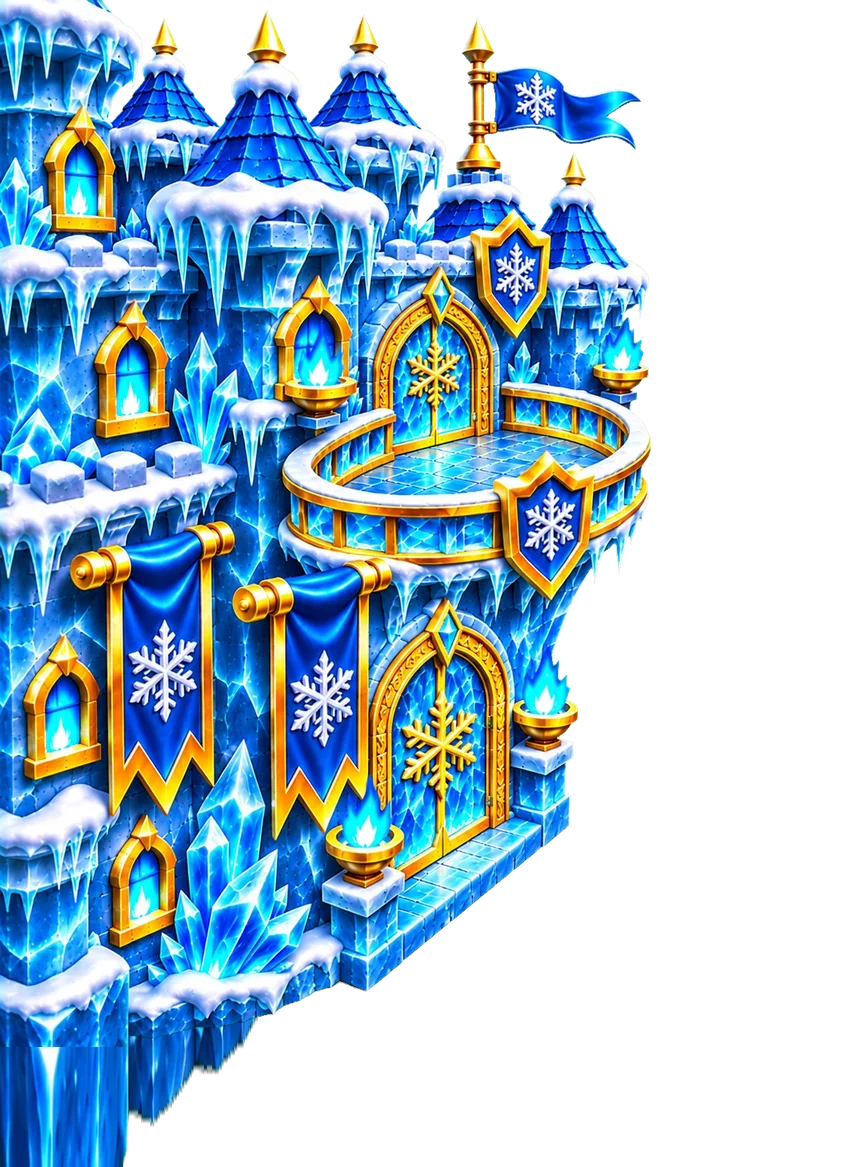
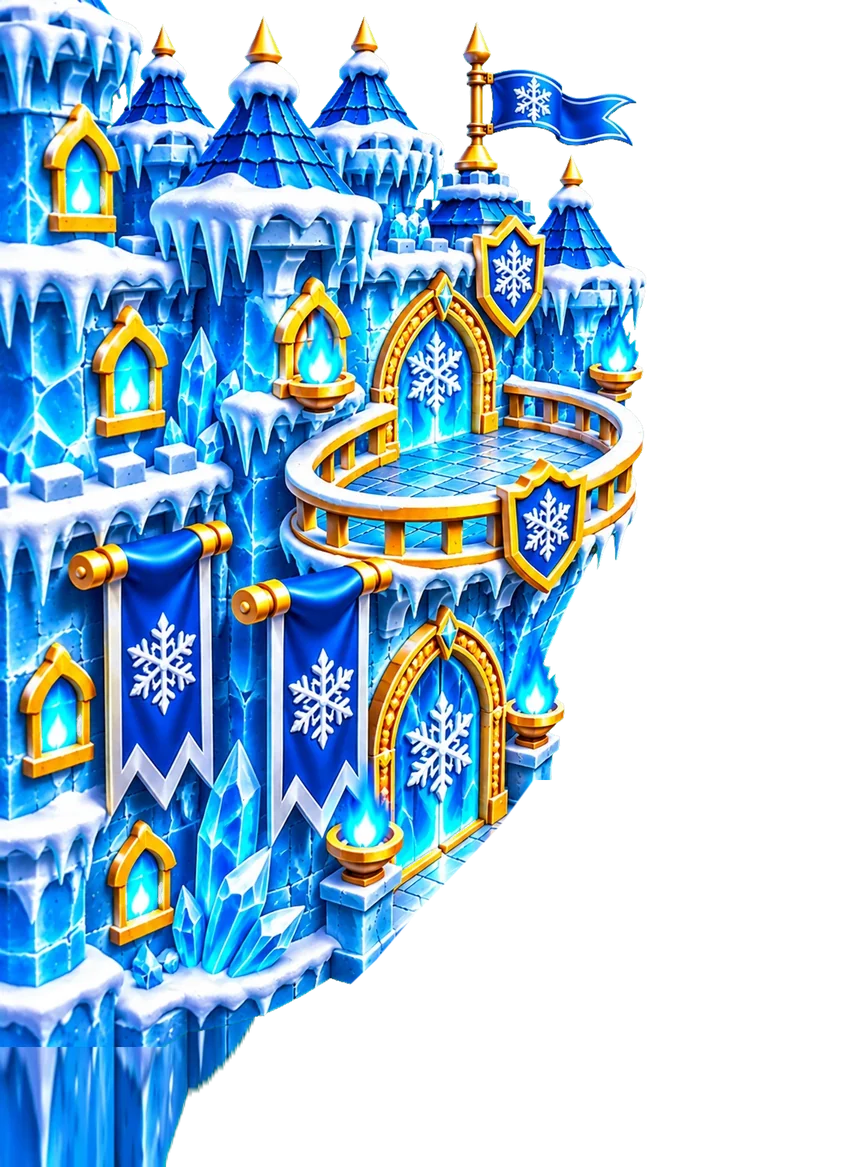
Castles: same base line for all 5, new Glacial art, troops touch the wall [skip ci]
Claude-Session: https://claude.ai/code/session_019FHBnxKyTVWzaJqkftQpoS

diff --git a/web/js/castles.js b/web/js/castles.js
@@ -1,3 +1,3 @@
 // gerado por tools/extract-castles-side.py
 window.BB = window.BB || {};
-BB.CASTLES_ART = {"royal_fortress": {"w": 845, "h": 1167, "x": -310, "y": -192, "foot": [488, 484], "gate": [424, 735], "rail": [[300, 510], [420, 542], [525, 542], [634, 458], [636, 540], [570, 589], [420, 596], [300, 574]], "front": [317, 230, 176], "src": "img/castles/royal_fortress.webp"}, "glacial_fortress": {"w": 845, "h": 1167, "x": -310, "y": -192, "foot": [488, 484], "gate": [424, 735], "rail": [[300, 510], [420, 542], [525, 542], [634, 458], [636, 540], [570, 589], [420, 596], [300, 574]], "front": [335, 248, 245], "src": "img/castles/glacial_fortress.webp"}, "draconic_castle": {"w": 845, "h": 1167, "x": -310, "y": -192, "foot": [488, 484], "gate": [424, 735], "rail": [[300, 510], [420, 542], [525, 542], [634, 458], [636, 540], [570, 589], [420, 596], [300, 574]], "front": [323, 236, 197], "src": "img/castles/draconic_castle.webp"}, "sylvan_sanctuary": {"w": 845, "h": 1167, "x": -310, "y": -192, "foot": [488, 484], "gate": [424, 735], "rail": [[300, 510], [420, 542], [525, 542], [634, 458], [636, 540], [570, 589], [420, 596], [300, 574]], "front": [339, 246, 236], "src": "img/castles/sylvan_sanctuary.webp"}, "shadow_necropolis": {"w": 845, "h": 1167, "x": -310, "y": -192, "foot": [488, 484], "gate": [424, 735], "rail": [[300, 510], [420, 542], [525, 542], [634, 458], [636, 540], [570, 589], [420, 596], [300, 574]], "front": [330, 238, 229], "src": "img/castles/shadow_necropolis.webp"}};
+BB.CASTLES_ART = {"royal_fortress": {"w": 845, "h": 1167, "x": -310, "y": -192, "foot": [488, 484], "gate": [424, 735], "rail": [[300, 510], [420, 542], [525, 542], [634, 458], [636, 540], [570, 589], [420, 596], [300, 574]], "front": [317, 230, 176], "src": "img/castles/royal_fortress.webp"}, "glacial_fortress": {"w": 845, "h": 1167, "x": -310, "y": -192, "foot": [488, 484], "gate": [424, 735], "rail": [[300, 510], [420, 542], [525, 542], [634, 458], [636, 540], [570, 589], [420, 596], [300, 574]], "front": [326, 238, 179], "src": "img/castles/glacial_fortress.webp"}, "draconic_castle": {"w": 845, "h": 1167, "x": -310, "y": -192, "foot": [488, 484], "gate": [424, 735], "rail": [[300, 510], [420, 542], [525, 542], [634, 458], [636, 540], [570, 589], [420, 596], [300, 574]], "front": [323, 236, 179], "src": "img/castles/draconic_castle.webp"}, "sylvan_sanctuary": {"w": 845, "h": 1167, "x": -310, "y": -192, "foot": [488, 484], "gate": [424, 735], "rail": [[300, 510], [420, 542], [525, 542], [634, 458], [636, 540], [570, 589], [420, 596], [300, 574]], "front": [339, 246, 179], "src": "img/castles/sylvan_sanctuary.webp"}, "shadow_necropolis": {"w": 845, "h": 1167, "x": -310, "y": -192, "foot": [488, 484], "gate": [424, 735], "rail": [[300, 510], [420, 542], [525, 542], [634, 458], [636, 540], [570, 589], [420, 596], [300, 574]], "front": [330, 238, 179], "src": "img/castles/shadow_necropolis.webp"}};

diff --git a/web/js/render.js b/web/js/render.js
@@ -213,7 +213,7 @@
       const key = m.players[0].castle.id + '|' + m.players[1].castle.id;
       if (this.frontKey === key) return;
       this.frontKey = key;
-      const edge = (id, i) => { const a = this.castleArtFor(id); const f = a && a.front && a.front[i]; return f == null ? null : f + (i === 0 ? 16 : -28); };
+      const edge = (id, i) => { const a = this.castleArtFor(id); const f = a && a.front && a.front[i]; return f == null ? null : f + [16, -4, -20][i]; };
       // Barão em pé na sacada do castelo escolhido
       for (let o = 0; o < 2; o++) {
         const a = this.castleArtFor(m.players[o].castle.id);

diff --git a/tools/extract-castles-side.py b/tools/extract-castles-side.py
@@ -17,7 +17,9 @@ GATE = (565, 980)       # centro do portão (impactos)
 RAIL = [(400, 680), (560, 722), (700, 722), (845, 610), (848, 720), (760, 785), (560, 795), (400, 765)]
 BARON = (178, 292)      # pé do Barão na arena
 LANES_Y = (322, 472, 652)
-PAD_BOTTOM = 160        # castelo continua para baixo (atrás da barra de cartas, celulares mais altos)
+PAD_BOTTOM = 160
+# base: todos terminam na mesma diagonal (a da Fortaleza Real); o que passar dela é cortado (borda suave)
+BASE_CUT = [(1040, 712), (1100, 668), (1160, 611), (1220, 553), (1280, 502), (1396, 380), (1556, 220)]        # castelo continua para baixo (atrás da barra de cartas, celulares mais altos)
 
 
 def key(a):
@@ -45,7 +47,13 @@ def main():
     meta = {}
     for cid in IDS:
         a = np.asarray(Image.open(os.path.join(SRC, cid + '.webp')).convert('RGB')).astype(np.float32)
-        im = Image.fromarray(key(a))
+        k = key(a)
+        ys = np.arange(k.shape[0])
+        lim = np.interp(ys, [p[0] for p in BASE_CUT], [p[1] for p in BASE_CUT], left=1e9)
+        xs = np.arange(k.shape[1])[None, :]
+        cut = np.clip((lim[:, None] - xs) / 3.0, 0, 1)
+        k[..., 3] = (k[..., 3] * cut).astype(np.uint8)
+        im = Image.fromarray(k)
         # prolonga a base para baixo (estica as últimas linhas): não aparece fundo embaixo do castelo
         base = im.crop((0, im.height - 40, im.width, im.height)).resize((im.width, PAD_BOTTOM + 40))
         tall = Image.new('RGBA', (im.width, im.height + PAD_BOTTOM)); tall.paste(base, (0, im.height - 40)); tall.alpha_composite(im, (0, 0))
